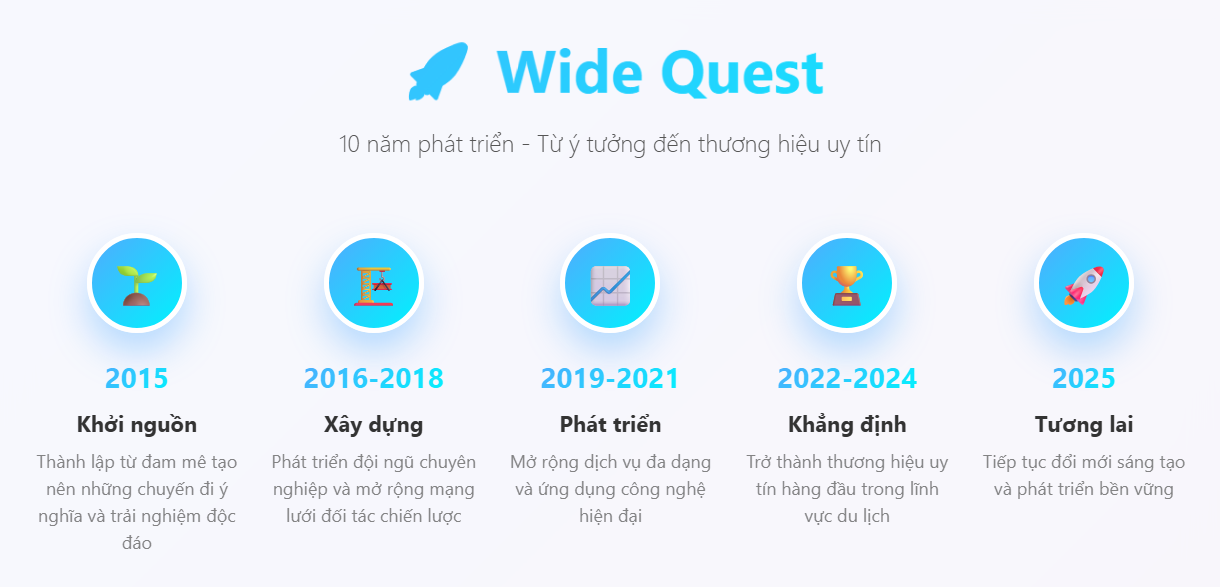
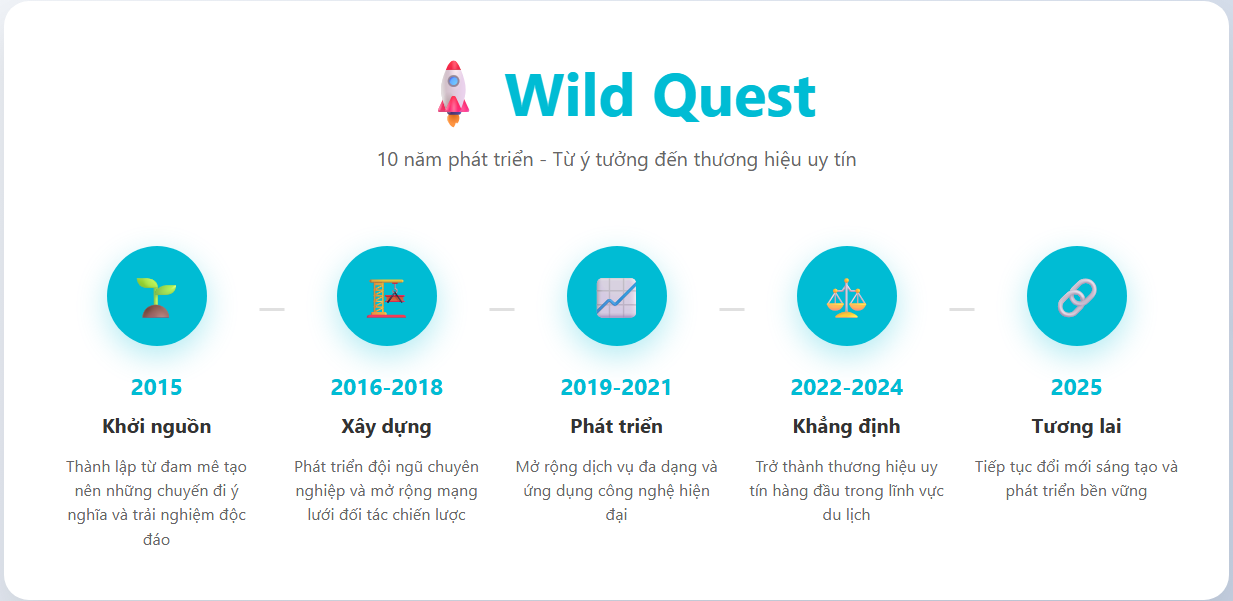
tạm end

diff --git a/src/pages/User/About/index.jsx b/src/pages/User/About/index.jsx
@@ -36,7 +36,7 @@ function About() {
       <section className="about-header animate-on-scroll">
         <div className="container">
           <div className="header-content">
-            <h1 className="page-title">Về Wide Quest</h1>
+            <h1 className="page-title">Về Wild Quest</h1>
             <p className="header-subtitle">Khám phá hành trình của chúng tôi trong việc tạo ra những chuyến đi đầy cảm hứng</p>
           </div>
         </div>
@@ -50,7 +50,7 @@ function About() {
                 <div className="col-md-6">
                   <h2 className="section-title">Sứ mệnh</h2>
                   <p className="section-text">
-                    Wide Quest tự hào là người bạn đồng hành đáng tin cậy trên mỗi hành trình khám phá thế giới. Chúng tôi cam kết mang đến những trải nghiệm du lịch khác biệt — không chỉ an toàn, tiện nghi mà còn đong đầy cảm xúc và ý nghĩa. Mỗi chuyến đi là cơ hội để du khách mở rộng tầm nhìn, hòa mình vào thiên nhiên hoang sơ và văn hóa bản địa.
+                    Wild Quest tự hào là người bạn đồng hành đáng tin cậy trên mỗi hành trình khám phá thế giới. Chúng tôi cam kết mang đến những trải nghiệm du lịch khác biệt — không chỉ an toàn, tiện nghi mà còn đong đầy cảm xúc và ý nghĩa. Mỗi chuyến đi là cơ hội để du khách mở rộng tầm nhìn, hòa mình vào thiên nhiên hoang sơ và văn hóa bản địa.
                   </p>
                 </div>
                 <div className="col-md-6">
@@ -58,7 +58,7 @@ function About() {
                     src="/images/about/mission.jpg"
                     alt="Sứ mệnh Wide Quest"
                     className="img-fluid rounded shadow-sm"
-                    style={{ height: '300px', objectFit: 'cover' }}
+                    style={{ height: '400px', objectFit: 'cover' }}
                   />
                 </div>
               </div>
@@ -71,7 +71,7 @@ function About() {
                 <div className="col-md-6 order-md-2">
                   <h2 className="section-title">Đội ngũ</h2>
                   <p className="section-text">
-                    Đội ngũ Wide Quest am hiểu sâu sắc từng điểm đến, mang đến trải nghiệm cá nhân hóa và đáng nhớ. Chúng tôi luôn lắng nghe, tư vấn và thiết kế hành trình phù hợp, từ phiêu lưu mạo hiểm đến thư giãn nhẹ nhàng, đảm bảo sự an tâm và hài lòng cho mọi du khách.
+                    Đội ngũ Wild Quest am hiểu sâu sắc từng điểm đến, mang đến trải nghiệm cá nhân hóa và đáng nhớ. Chúng tôi luôn lắng nghe, tư vấn và thiết kế hành trình phù hợp, từ phiêu lưu mạo hiểm đến thư giãn nhẹ nhàng, đảm bảo sự an tâm và hài lòng cho mọi du khách.
                   </p>
                 </div>
                 <div className="col-md-6 order-md-1">
@@ -92,7 +92,7 @@ function About() {
                 <div className="col-md-6">
                   <h2 className="section-title">Lịch sử thành lập</h2>
                   <p className="section-text">
-                    Thành lập năm 2015, Wide Quest khởi nguồn từ đam mê tạo nên những chuyến đi ý nghĩa. Qua 10 năm, chúng tôi đã phục vụ hàng ngàn du khách, mở rộng mạng lưới đối tác và nâng cấp dịch vụ với công nghệ hiện đại. Sự tin tưởng của khách hàng là động lực để chúng tôi vươn xa.
+                    Thành lập năm 2015, Wild Quest khởi nguồn từ đam mê tạo nên những chuyến đi ý nghĩa. Qua 10 năm, chúng tôi đã phục vụ hàng ngàn du khách, mở rộng mạng lưới đối tác và nâng cấp dịch vụ với công nghệ hiện đại. Sự tin tưởng của khách hàng là động lực để chúng tôi vươn xa.
                   </p>
                 </div>
                 <div className="col-md-6">

diff --git a/src/components/Layout/DefautLayout/UserLayout/Footer/index.jsx b/src/components/Layout/DefautLayout/UserLayout/Footer/index.jsx
@@ -64,9 +64,9 @@ function Footer() {
         <div className="row gy-4 mb-4">
           {/* Logo & Contact Info */}
           <div className="col-lg-4 col-md-6 footer-animate-item">
-            
-              <span className="footer-brand-text">Wide Quest</span>
-        
+
+            <span className="footer-brand-text">Wild Quest</span>
+
             <p className="footer-slogan mt-2">Khám phá thế giới cùng chúng tôi</p>
             <div className="footer-contact mt-3">
               <div className="d-flex align-items-center mb-2">
@@ -114,11 +114,11 @@ function Footer() {
             <div className="footer-newsletter mb-3">
               <p className="mb-2">Đăng ký nhận thông tin mới nhất</p>
               <div className="input-group">
-                <input 
-                  type="email" 
-                  className="form-control" 
-                  placeholder="Email của bạn" 
-                  aria-label="Email subscription" 
+                <input
+                  type="email"
+                  className="form-control"
+                  placeholder="Email của bạn"
+                  aria-label="Email subscription"
                 />
                 <button className="btn btn-primary" type="button">
                   {/* Thay icon Font Awesome bằng emoji nếu FA vẫn không hiện */}
@@ -151,7 +151,7 @@ function Footer() {
 
         <div className="footer-bottom row align-items-center footer-animate-item">
           <div className="col-md-6 text-center text-md-start">
-            <p className="mb-0">© {new Date().getFullYear()} Wide Quest. All rights reserved.</p>
+            <p className="mb-0">© {new Date().getFullYear()} Wild Quest. All rights reserved.</p>
           </div>
           <div className="col-md-6 text-center text-md-end mt-3 mt-md-0">
             <Link to="/privacy" className="footer-bottom-link">Chính sách bảo mật</Link>

diff --git a/src/components/Layout/DefautLayout/UserLayout/Header/index.jsx b/src/components/Layout/DefautLayout/UserLayout/Header/index.jsx
@@ -25,7 +25,7 @@ function Header() {
         if (stored) {
           tours = JSON.parse(stored);
         }
-      } catch {}
+      } catch { }
       setUserTours(Array.isArray(tours) ? tours : []);
     } else {
       setUserName('');
@@ -75,7 +75,7 @@ function Header() {
             fontFamily: "'Montserrat', 'Segoe UI', Arial, sans-serif",
           }}
         >
-          Wide Quest
+          Wild Quest
         </Link>
         {/* Toggle button for mobile */}
         <button
@@ -132,7 +132,7 @@ function Header() {
                   <User size={20} className="me-2" />
                   <span>{userName}</span>
                 </button>
-                <ul className="dropdown-menu dropdown-menu-end" aria-labelledby="userDropdown" style={{minWidth: 260}}>
+                <ul className="dropdown-menu dropdown-menu-end" aria-labelledby="userDropdown" style={{ minWidth: 260 }}>
                   <li>
                     <Link className="dropdown-item" to="/profile">
                       <User size={16} className="me-2" />
@@ -141,7 +141,7 @@ function Header() {
                   </li>
                   <li>
                     <Link className="dropdown-item" to="/bookedtours">
-                      <span className="fw-bold text-secondary" style={{fontSize: 15}}>Tour đã đặt</span>
+                      <span className="fw-bold text-secondary" style={{ fontSize: 15 }}>Tour đã đặt</span>
                     </Link>
                   </li>
                   <li><hr className="dropdown-divider" /></li>
@@ -149,7 +149,7 @@ function Header() {
                     <button
                       className="dropdown-item text-danger"
                       onClick={handleLogout}
-                      style={{fontWeight: 600}}
+                      style={{ fontWeight: 600 }}
                     >
                       Đăng xuất
                     </button>

diff --git a/src/pages/User/Home/index.jsx b/src/pages/User/Home/index.jsx
@@ -150,9 +150,9 @@ function Home() {
 
             </div>
             <div className="col-md-6 about-content" >
-              <h2 className="section-title">Về Wide Quest</h2>
+              <h2 className="section-title">Về Wild Quest</h2>
               <p className="section-text">
-                Wide Quest là nền tảng du lịch dành cho những người yêu thích khám phá, trải nghiệm và phiêu lưu.
+                Wild Quest là nền tảng du lịch dành cho những người yêu thích khám phá, trải nghiệm và phiêu lưu.
                 Chúng tôi mang đến các tour độc đáo, điểm đến hấp dẫn và dịch vụ tận tâm để mỗi chuyến đi của bạn trở nên đáng nhớ.
               </p>
               <Link to="/about" className="btn-custom">Tìm hiểu thêm</Link>
@@ -167,7 +167,7 @@ function Home() {
               <h2 className="section-title">Lý do nên chọn chúng tôi</h2>
               <p className="section-text">
                 Với đội ngũ chuyên nghiệp, lịch trình linh hoạt và những hành trình được thiết kế đặc biệt cho từng cá nhân,
-                Wide Quest là người bạn đồng hành lý tưởng trong mọi chuyến đi của bạn. Chúng tôi cam kết mang lại trải nghiệm
+                Wild Quest là người bạn đồng hành lý tưởng trong mọi chuyến đi của bạn. Chúng tôi cam kết mang lại trải nghiệm
                 an toàn, thú vị và đáng nhớ.
               </p>
             </div>

diff --git a/index.html b/index.html
@@ -4,7 +4,7 @@
 <head>
     <meta charset="UTF-8">
     <meta name="viewport" content="width=device-width, initial-scale=1.0">
-    <title>Wide Quest</title>
+    <title>Wild Quest</title>
     <link rel="stylesheet" href="https://cdnjs.cloudflare.com/ajax/libs/font-awesome/6.4.2/css/all.min.css"
         crossorigin="anonymous" />
 </head>
